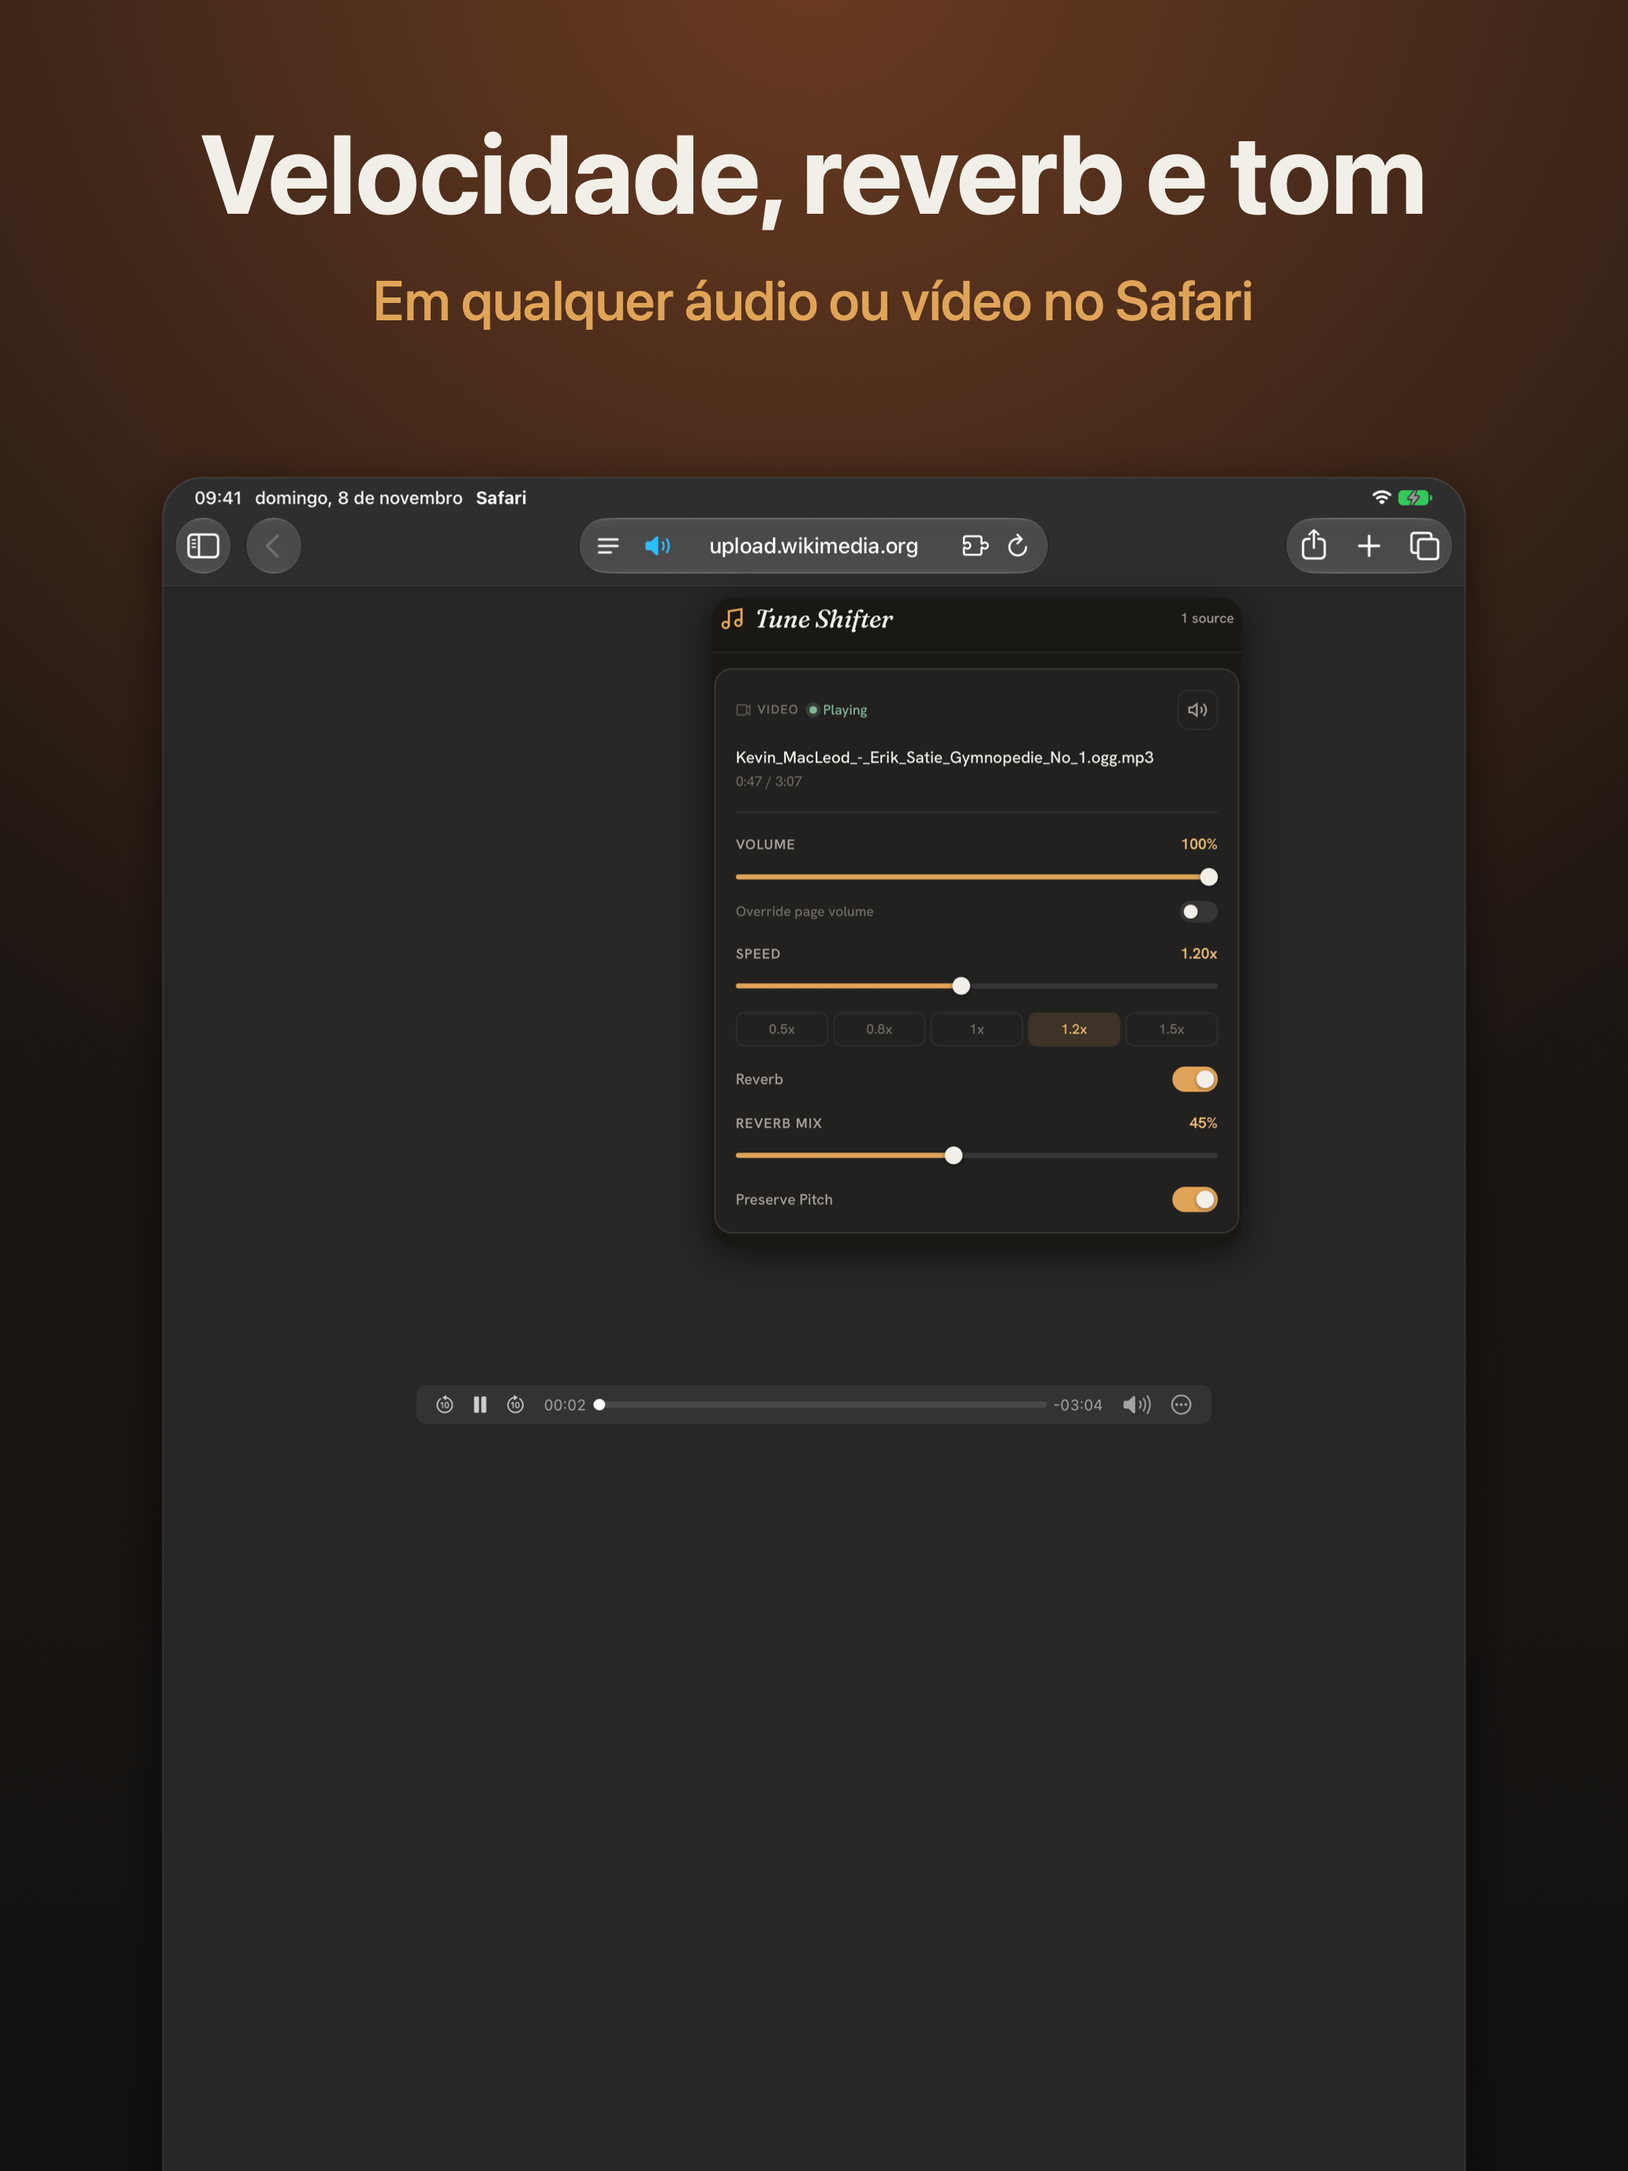
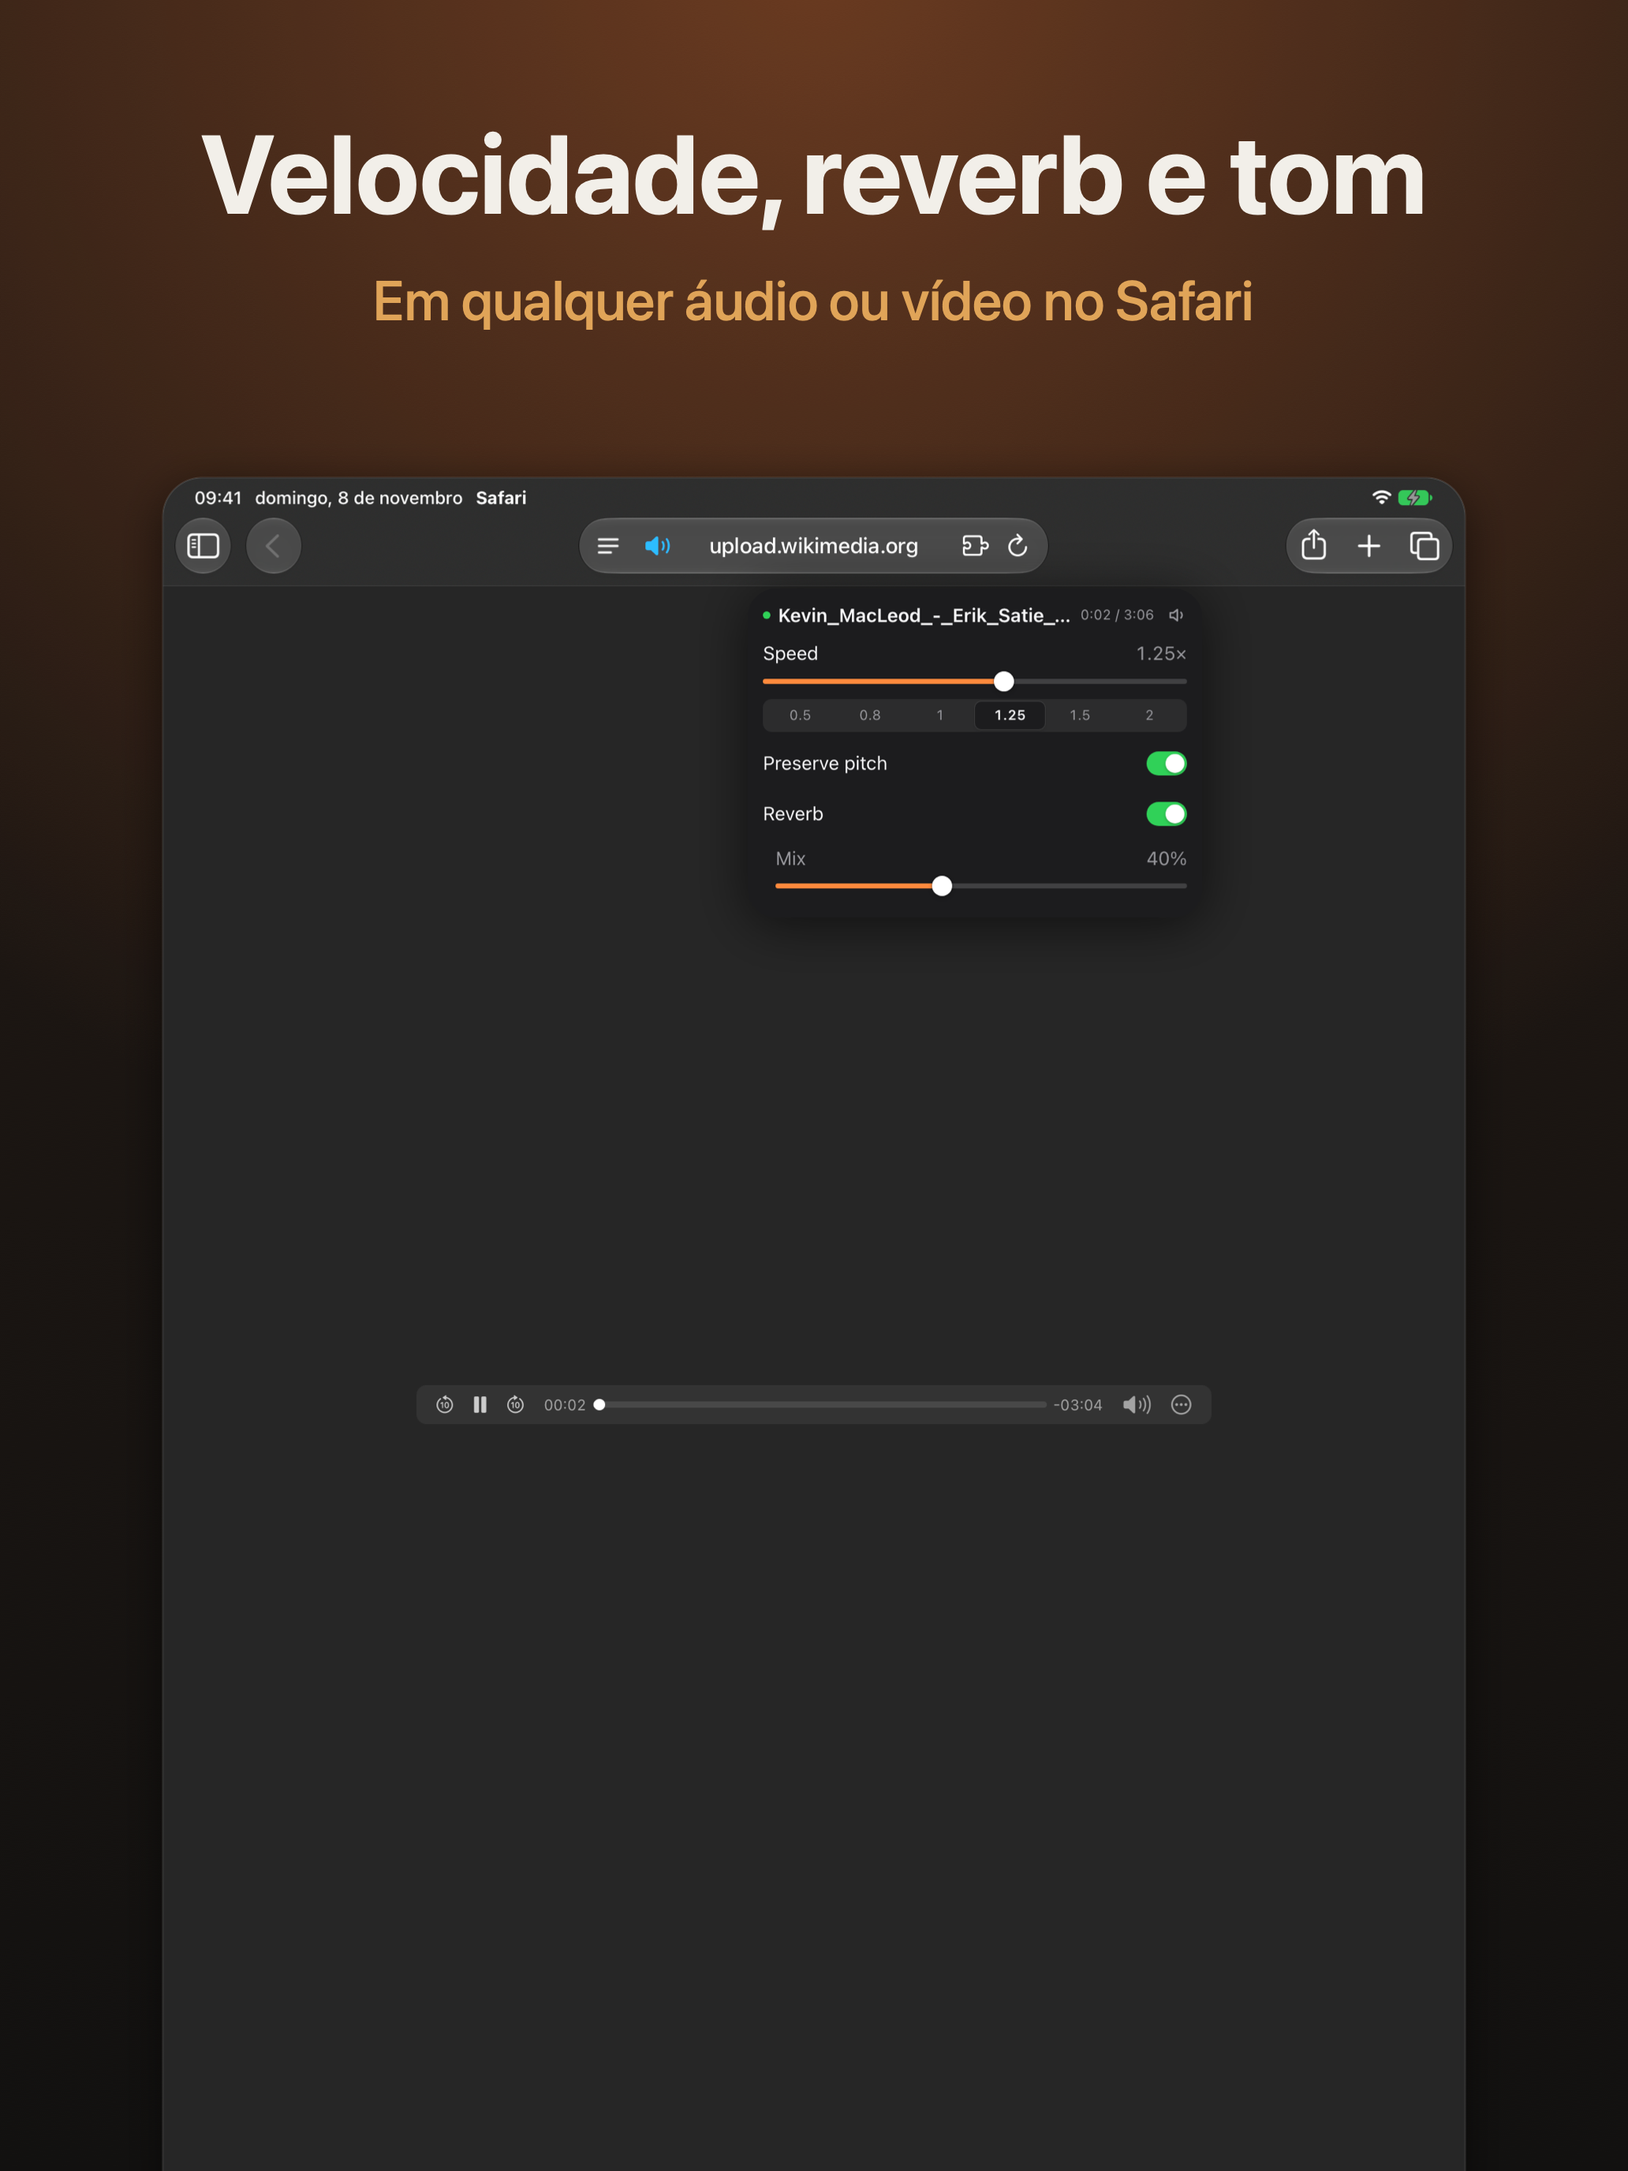
Capturas da App Store com o popup novo
Popup compilado desenhado em Chrome headless (1.25x, preservar tom, reverb 40 %;
sem volume no iOS) sobre capturas reais do Safari: folha no iPhone (escuro e
claro), popover no iPad e no Mac. scripts/safari-popup-raws.py gera as capturas
em raw/, safari-screenshots.swift compõe as da loja.

diff --git a/scripts/safari-screenshots.swift b/scripts/safari-screenshots.swift
@@ -116,37 +116,37 @@ func landscape(_ shot: CGImage, _ c: Caption) -> CGImage {
   }
 }
 
-let iphonePopupFull = load("iphone-popup-full.png")
-let iphonePopupHalf = load("iphone-popup-half.png")
-// O popup do Tune Shifter (sem a folha do Safari), para o iPad.
-let popupCard = crop(iphonePopupFull, 30, 450, 1260, 1540)
-let ipadPage = load("ipad-page.png")
-// iPad: popover do Tune Shifter por baixo do ícone das extensões, sobre a página real.
-let ipadSafari = canvas(2064, 2752) { ctx in
-  ctx.draw(ipadPage, in: CGRect(x: 0, y: 0, width: 2064, height: 2752))
-  let w: CGFloat = 840, h = w * CGFloat(popupCard.height) / CGFloat(popupCard.width)
-  let box = CGRect(x: 1290 - w / 2, y: 2752 - 190 - h, width: w, height: h)
-  ctx.saveGState()
-  ctx.setShadow(offset: CGSize(width: 0, height: -10), blur: 60, color: color(0x000000, 0.6))
-  ctx.addPath(CGPath(roundedRect: box, cornerWidth: 36, cornerHeight: 36, transform: nil)); ctx.setFillColor(color(0x1A1815)); ctx.fillPath()
-  ctx.restoreGState()
-  ctx.saveGState()
-  ctx.addPath(CGPath(roundedRect: box, cornerWidth: 36, cornerHeight: 36, transform: nil)); ctx.clip()
-  ctx.draw(popupCard, in: box)
-  ctx.restoreGState()
+/// Mac com a janela inteira do Safari: legenda em cima, janela por baixo (o popup fica legível).
+func macWindow(_ shot: CGImage, _ c: Caption) -> CGImage {
+  canvas(2880, 1800) { ctx in
+    text(ctx, c.title, size: 96, weight: .bold, color: color(0xF2EFE9), in: CGRect(x: 160, y: 1800 - 220, width: 2560, height: 130))
+    text(ctx, c.sub, size: 48, weight: .medium, color: color(0xE0A458), in: CGRect(x: 160, y: 1800 - 300, width: 2560, height: 80))
+    let s = min(2560 / CGFloat(shot.width), 1400 / CGFloat(shot.height))
+    let w = CGFloat(shot.width) * s, h = CGFloat(shot.height) * s
+    let r = CGRect(x: 1440 - w / 2, y: 60, width: w, height: h)
+    ctx.saveGState()
+    ctx.setShadow(offset: CGSize(width: 0, height: -16), blur: 70, color: color(0x000000, 0.6))
+    ctx.draw(shot, in: r)
+    ctx.restoreGState()
+  }
 }
-// Mac: o popover do Safari recortado da captura real.
-let macPopup = crop(load("mac-safari-popup.png"), 480, 124, 694, 1042)
+
+// Capturas do popup em uso (scripts/safari-popup-raws.py): folha do Safari no iPhone
+// (escuro e claro), popover no iPad e no Mac.
+let iphonePopupDark = load("iphone-popup-dark.png")
+let iphonePopupLight = load("iphone-popup-light.png")
+let ipadSafari = load("ipad-popup.png")
+let macSafari = load("mac-safari-popup.png")
 let macApp = load("mac-app-pt.png")
 
 for (loc, cap) in captions {
   let iphoneApp = load("iphone-app-\(loc == "pt-PT" ? "pt" : "en").png")
   let ipadApp = load("ipad-app-\(loc == "pt-PT" ? "pt" : "en").png")
-  save(portrait(1320, 2868, iphonePopupFull, cap[0], radius: 90), "iphone/\(loc)/1.png")
-  save(portrait(1320, 2868, iphonePopupHalf, cap[1], radius: 90), "iphone/\(loc)/2.png")
+  save(portrait(1320, 2868, iphonePopupDark, cap[0], radius: 90), "iphone/\(loc)/1.png")
+  save(portrait(1320, 2868, iphonePopupLight, cap[1], radius: 90), "iphone/\(loc)/2.png")
   save(portrait(1320, 2868, iphoneApp, cap[2], radius: 90), "iphone/\(loc)/3.png")
   save(portrait(2064, 2752, ipadSafari, cap[0], radius: 50), "ipad/\(loc)/1.png")
   save(portrait(2064, 2752, ipadApp, cap[2], radius: 50), "ipad/\(loc)/2.png")
-  save(landscape(macPopup, cap[0]), "mac/\(loc)/1.png")
+  save(macWindow(macSafari, cap[0]), "mac/\(loc)/1.png")
   if loc == "pt-PT" { save(landscape(macApp, cap[2]), "mac/\(loc)/2.png") }
 }

diff --git a/scripts/safari-popup-raws.py b/scripts/safari-popup-raws.py
@@ -1,0 +1,192 @@
+#!/usr/bin/env python3
+"""Capturas "em uso" do popup novo para a App Store, sem abrir janelas.
+
+    npm run build:safari && python3 scripts/safari-popup-raws.py
+    swift scripts/safari-screenshots.swift
+
+O Safari não deixa capturar o popup de uma extensão sem o abrir à mão, por isso:
+1. o popup compilado (dist-safari/popup) é desenhado em Chrome headless com um
+   `chrome.tabs` falso que devolve um áudio real a tocar (1.25x, preservar tom,
+   reverb 40 %; no iOS sem volume, como na extensão);
+2. é posto por cima de capturas reais do Safari (Simulador via simctl e Safari no
+   macOS), na forma em que o Safari mostra popups de extensões: folha em baixo no
+   iPhone, popover no iPad e no Mac.
+
+Entradas em safari/screenshots/raw/: iphone-page.png, ipad-page.png, mac-safari-base.png.
+Saídas no mesmo sítio: iphone-popup-dark.png, iphone-popup-light.png, ipad-popup.png,
+mac-safari-popup.png.
+"""
+import http.server
+import json
+import os
+import re
+import shutil
+import subprocess
+import tempfile
+import threading
+from functools import partial
+
+from PIL import Image, ImageDraw, ImageFilter, ImageFont
+
+ROOT = os.path.dirname(os.path.dirname(os.path.abspath(__file__)))
+DIST = os.path.join(ROOT, "dist-safari")
+RAW = os.path.join(ROOT, "safari/screenshots/raw")
+CHROME = "/Applications/Google Chrome.app/Contents/MacOS/Google Chrome"
+SF = "/System/Library/Fonts/SFNS.ttf"
+
+MEDIA = {
+    "id": 1, "type": "audio", "src": "",
+    "title": "Kevin_MacLeod_-_Erik_Satie_Gymnopedie_No_1.ogg.mp3",
+    "paused": False, "duration": 186, "volume": 1, "volumeEnabled": False,
+    "playbackRate": 1.25, "preservesPitch": True, "muted": False,
+    "reverb": 0.4, "reverbEnabled": True, "reverbPending": False,
+}
+
+
+def render(tmp, port, name, *, dark, touch, width, scale, **media):
+    """Desenha o popup e devolve a imagem recortada ao conteúdo."""
+    pop = os.path.join(tmp, "popup")
+    css = open(os.path.join(pop, "popup.css")).read()
+    block = re.search(r"@media\(prefers-color-scheme:dark\)\{(:root\{[^}]*\})\}", css)
+    css = css.replace(block.group(0), block.group(1) if dark else "")
+    if touch:  # o Safari no iOS/iPadOS responde a (pointer: coarse)
+        css = css.replace("@media(pointer:coarse){", "@media all{")
+    # Fundo quase transparente no <html> para o do <body> não encher a janela toda.
+    css += "html{background:rgba(0,0,0,.004)}body{width:%spx!important}" % width
+    open(os.path.join(pop, name + ".css"), "w").write(css)
+    m = dict(MEDIA, **media)
+    stub = ("<script>const M=%s;window.chrome={runtime:{lastError:null},tabs:{query:async()=>[{id:1}],"
+            "sendMessage:(t,m,cb)=>cb(m.action==='getMedia'?{media:M}:{ok:1})}};</script>") % json.dumps([m])
+    html = open(os.path.join(pop, "index.html")).read()
+    html = html.replace('<script type="module"', stub + '<script type="module"').replace("./popup.css", "./%s.css" % name)
+    open(os.path.join(pop, name + ".html"), "w").write(html)
+    out = os.path.join(tmp, name + ".png")
+    subprocess.run([CHROME, "--headless=new", "--disable-gpu", "--hide-scrollbars",
+                    "--user-data-dir=" + os.path.join(tmp, "profile"), "--default-background-color=00000000",
+                    "--force-device-scale-factor=%s" % scale, "--window-size=900,1000",
+                    "--virtual-time-budget=3000", "--screenshot=" + out,
+                    "http://127.0.0.1:%d/popup/%s.html" % (port, name)],
+                   check=True, stderr=subprocess.DEVNULL, stdout=subprocess.DEVNULL)
+    im = Image.open(out).convert("RGBA")
+    bbox = im.split()[3].point(lambda v: 255 if v > 8 else 0).getbbox()
+    im = im.crop(bbox)
+    im.putalpha(255)
+    return im
+
+
+def font(size, weight="Semibold"):
+    f = ImageFont.truetype(SF, size)
+    f.set_variation_by_name(weight)
+    return f
+
+
+def rounded_mask(size, radius):
+    m = Image.new("L", size, 0)
+    ImageDraw.Draw(m).rounded_rectangle((0, 0, size[0] - 1, size[1] - 1), radius, fill=255)
+    return m
+
+
+def shadow(base, box, radius, blur, alpha, dy=0):
+    sh = Image.new("RGBA", base.size, (0, 0, 0, 0))
+    ImageDraw.Draw(sh).rounded_rectangle((box[0], box[1] + dy, box[2], box[3] + dy), radius, fill=(0, 0, 0, alpha))
+    base.alpha_composite(sh.filter(ImageFilter.GaussianBlur(blur)))
+
+
+def iphone(page, pop, dark):
+    """Folha do Safari no iPhone (destaque médio, ajustada ao conteúdo) sobre a página escurecida."""
+    W, H = page.size
+    bg_page = 38
+    img = page.convert("RGBA")
+    dim = Image.alpha_composite(img, Image.new("RGBA", img.size, (0, 0, 0, 115)))
+    # A barra de estado fica por cima do escurecimento.
+    top = img.crop((0, 0, W, 170)).convert("L").point(lambda v: max(0, min(255, (v - bg_page) * 255 // (255 - bg_page))))
+    dim.paste(img.crop((0, 0, W, 170)), (0, 0), top)
+    img = dim
+    x0, x1, bottom = 24, W - 24, H - 25
+    head = 245
+    sheet_h = head + pop.height + 75
+    y0 = bottom - sheet_h
+    bg = (28, 28, 30) if dark else (255, 255, 255)
+    fg = (245, 245, 247) if dark else (29, 29, 31)
+    shadow(img, (x0, y0, x1, bottom), 120, 40, 110)
+    sheet = Image.new("RGBA", (x1 - x0, sheet_h), bg + (255,))
+    d = ImageDraw.Draw(sheet)
+    d.text((sheet.width / 2, 130), "Tune Shifter", font=font(51), fill=fg, anchor="mm")
+    cx, cy, r = sheet.width - 122, 129, 63
+    d.ellipse((cx - r, cy - r, cx + r, cy + r), fill=(74, 149, 255))
+    d.line([(cx - 25, cy + 1), (cx - 7, cy + 21), (cx + 26, cy - 22)], fill=(255, 255, 255), width=9, joint="curve")
+    for px, py in [(cx - 25, cy + 1), (cx + 26, cy - 22), (cx - 7, cy + 21)]:
+        d.ellipse((px - 4, py - 4, px + 4, py + 4), fill=(255, 255, 255))
+    sheet.alpha_composite(pop.resize((sheet.width, round(pop.height * sheet.width / pop.width)), Image.LANCZOS), (0, head))
+    img.paste(sheet, (x0, y0), rounded_mask(sheet.size, 120))
+    return img.convert("RGB")
+
+
+def ipad(page, pop):
+    """Popover do Tune Shifter por baixo do botão das extensões (barra de endereço)."""
+    img = page.convert("RGBA")
+    cx, y0 = 1287, 176
+    box = (cx - pop.width // 2, y0, cx - pop.width // 2 + pop.width, y0 + pop.height)
+    shadow(img, box, 44, 40, 150, 10)
+    img.paste(pop, box[:2], rounded_mask(pop.size, 44))
+    return img.convert("RGB")
+
+
+def mac(base, pop, bar):
+    """Janela real do Safari (macOS): página de áudio da Wikimedia e popover sob o ícone."""
+    img = base.copy()
+    alpha = img.split()[3]
+    W, H = img.size
+    d = ImageDraw.Draw(img)
+    page_bg = (38, 38, 38, 255)
+    d.rectangle((0, 105, W, H), fill=page_bg)  # tapa a página de teste e o popover antigo
+    # Página de áudio: a barra de controlos do WebKit (mesma captura do iPad, também @2x) ao centro.
+    img.paste(bar, ((W - bar.width) // 2, 105 + (H - 105 - bar.height) // 2))
+    # Barra de endereço: endereço real e sem o ícone de tradução (não aparece em ficheiros de áudio).
+    field = (57, 57, 57, 255)
+    d.rectangle((1410, 30, 1540, 74), fill=field)
+    d.text((1475, 52), "upload.wikimedia.org", font=font(27), fill=(236, 236, 236), anchor="mm")
+    speaker = img.crop((1928, 28, 1972, 76))
+    d.rectangle((1926, 28, 2018, 76), fill=field)
+    img.paste(speaker, (1972, 28))
+    # Popover: a seta original fica (é desenhada pelo Safari); o conteúdo é o popup novo.
+    box = (822 - pop.width // 2, 114, 822 - pop.width // 2 + pop.width, 114 + pop.height)
+    shadow(img, box, 30, 30, 140, 8)
+    img.paste(pop, box[:2], rounded_mask(pop.size, 30))
+    img.putalpha(alpha)
+    return img
+
+
+def main():
+    assert os.path.exists(os.path.join(DIST, "popup/index.html")), "corre primeiro npm run build:safari"
+    tmp = tempfile.mkdtemp(prefix="ts-raws-")
+    try:
+        shutil.copytree(DIST, tmp, dirs_exist_ok=True)
+        class Quiet(http.server.SimpleHTTPRequestHandler):
+            def log_message(self, *a):
+                pass
+        srv = http.server.ThreadingHTTPServer(("127.0.0.1", 0), partial(Quiet, directory=tmp))
+        threading.Thread(target=srv.serve_forever, daemon=True).start()
+        port = srv.server_address[1]
+        ios = dict(touch=True, width=1272 / 3, scale=3, volumeSupported=False)
+        pd = render(tmp, port, "ios-dark", dark=True, currentTime=23, **ios)
+        pl = render(tmp, port, "ios-light", dark=False, currentTime=23, **ios)
+        pi = render(tmp, port, "ipad", dark=True, touch=True, width=360, scale=2, currentTime=2, volumeSupported=False)
+        pm = render(tmp, port, "mac", dark=True, touch=False, width=300, scale=2, currentTime=2,
+                    volumeSupported=True, volumeEnabled=True, volume=0.8)
+        srv.shutdown()
+    finally:
+        shutil.rmtree(tmp, ignore_errors=True)
+
+    page = Image.open(os.path.join(RAW, "iphone-page.png"))
+    iphone(page, pd, True).save(os.path.join(RAW, "iphone-popup-dark.png"))
+    iphone(page, pl, False).save(os.path.join(RAW, "iphone-popup-light.png"))
+    ipad_page = Image.open(os.path.join(RAW, "ipad-page.png"))
+    ipad(ipad_page, pi).save(os.path.join(RAW, "ipad-popup.png"))
+    bar = ipad_page.convert("RGBA").crop((380, 1420, 1690, 1520))
+    mac(Image.open(os.path.join(RAW, "mac-safari-base.png")).convert("RGBA"), pm, bar).save(os.path.join(RAW, "mac-safari-popup.png"))
+    print("ok")
+
+
+if __name__ == "__main__":
+    main()
